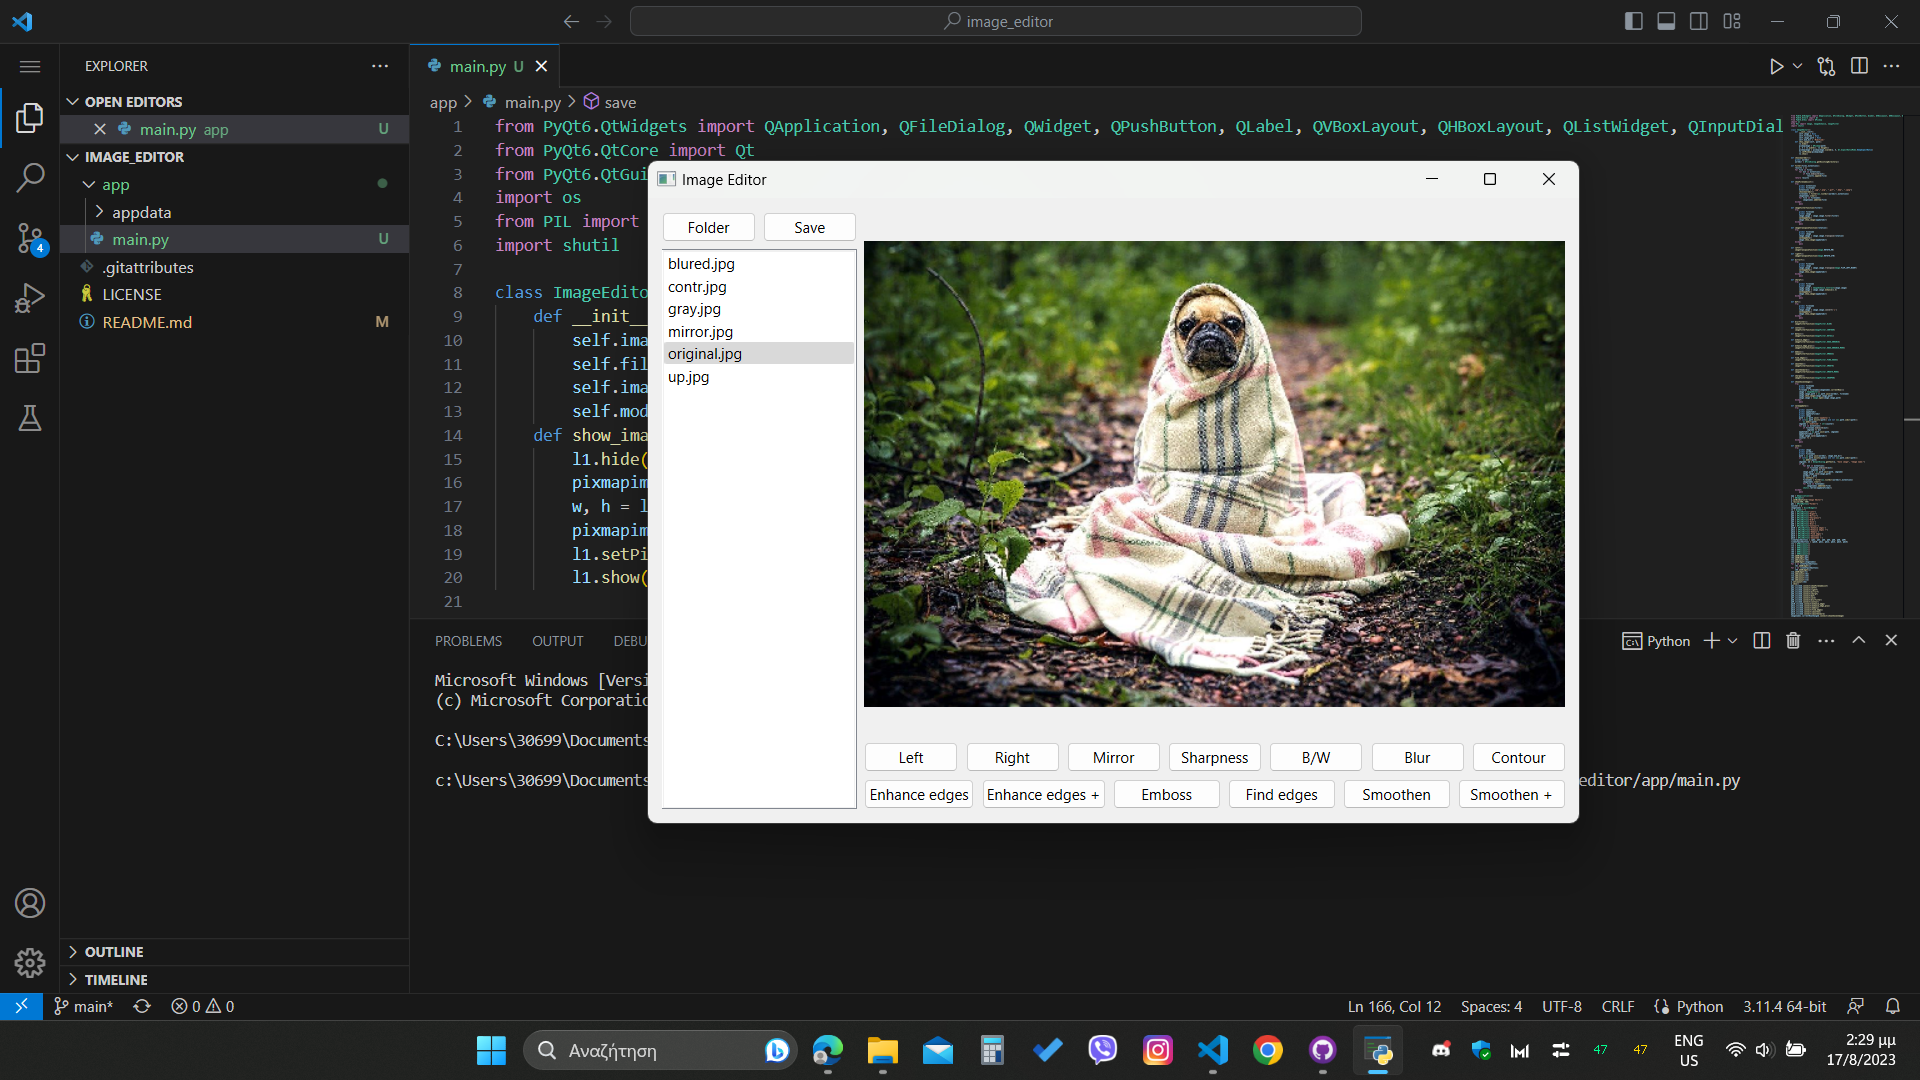
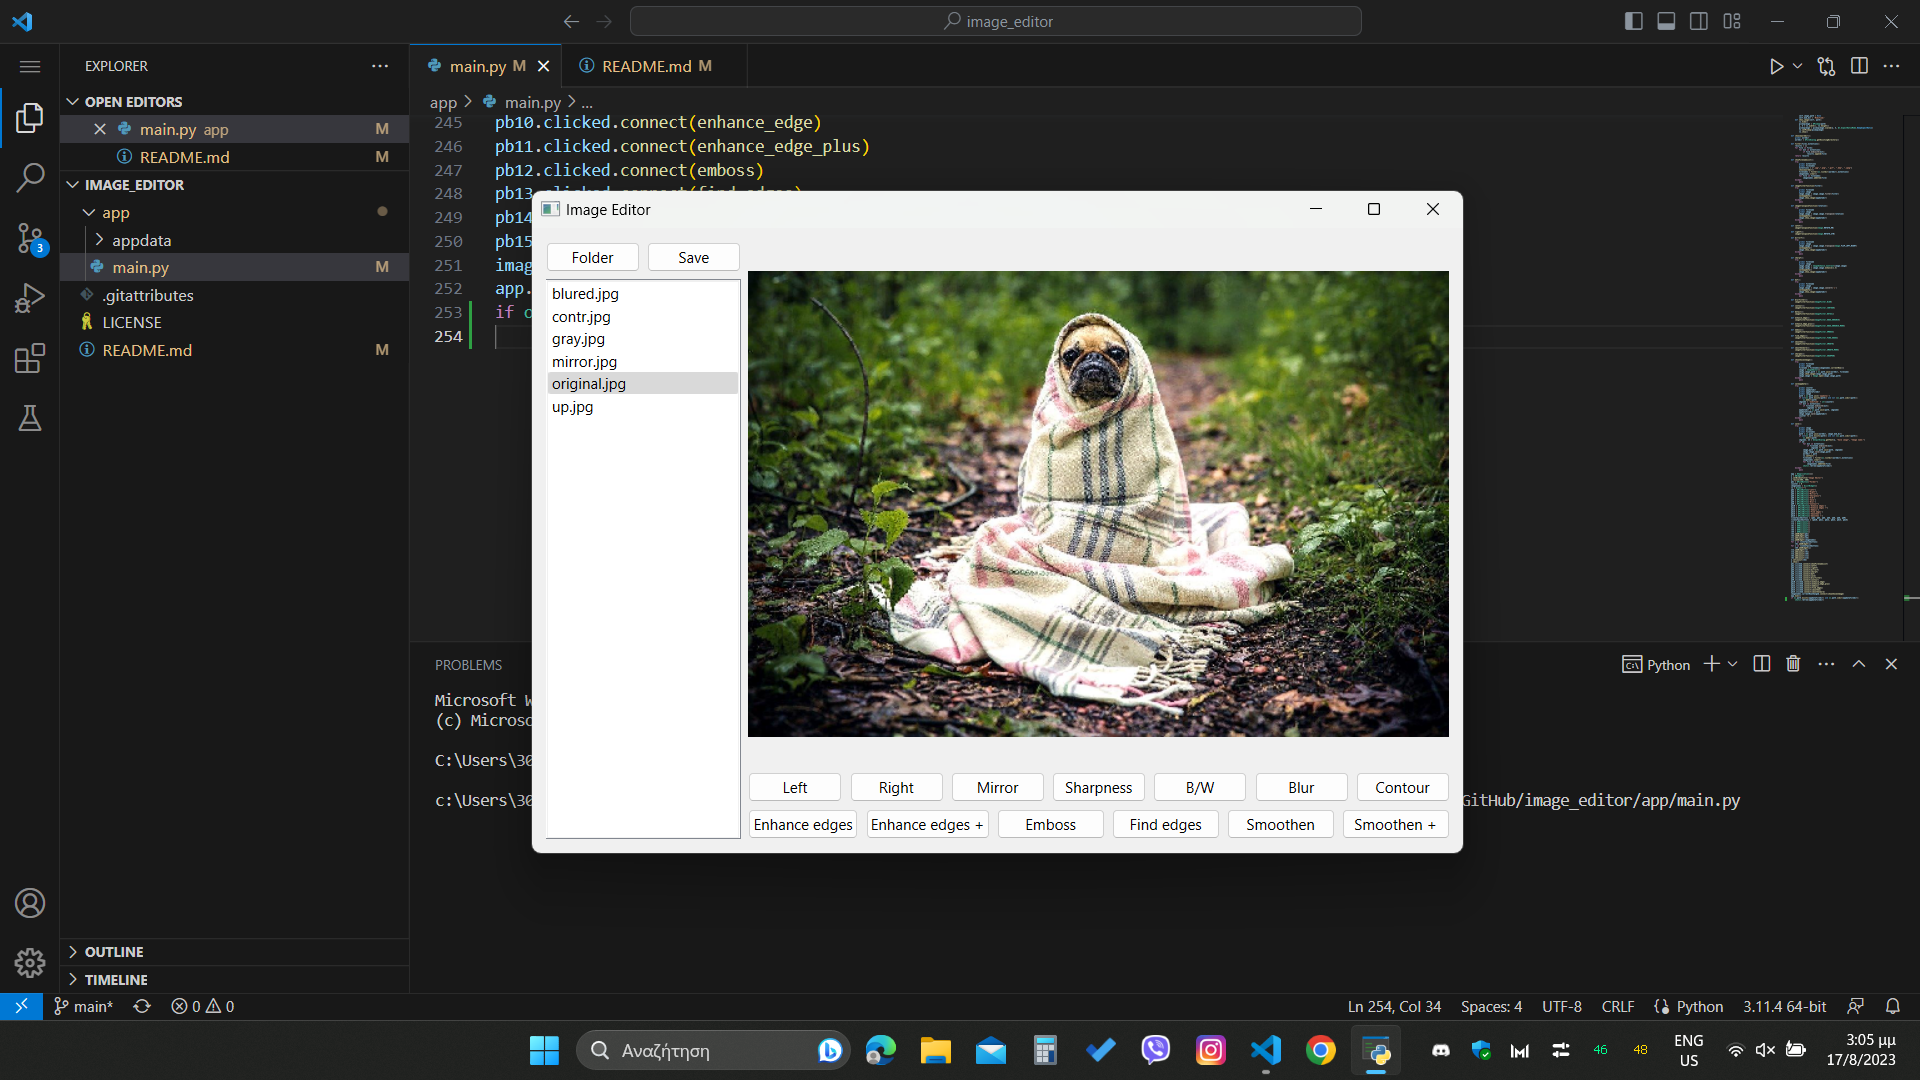
update: improved storage method

diff --git a/app/main.py b/app/main.py
@@ -250,3 +250,5 @@ pb14.clicked.connect(smoothen)
 pb15.clicked.connect(smoothenmore)
 imagenames.currentRowChanged.connect(showChosenImage)
 app.exec()
+if os.path.exists(appdatafiledir) and os.path.isdir(appdatafiledir):
+    shutil.rmtree(appdatafiledir)

diff --git a/README.md b/README.md
@@ -1,1 +1,1 @@
-This project was initally created as a school project, but I made important alterations. You can delete the appdata file (where the program is located) from this program after you finish your work. Credits for project idea and for the images shown on the preview: Algorithmics Greece
+This project was initally created as a school project, but I made important alterations. Credits for project idea and for the images shown on the preview: Algorithmics Greece
